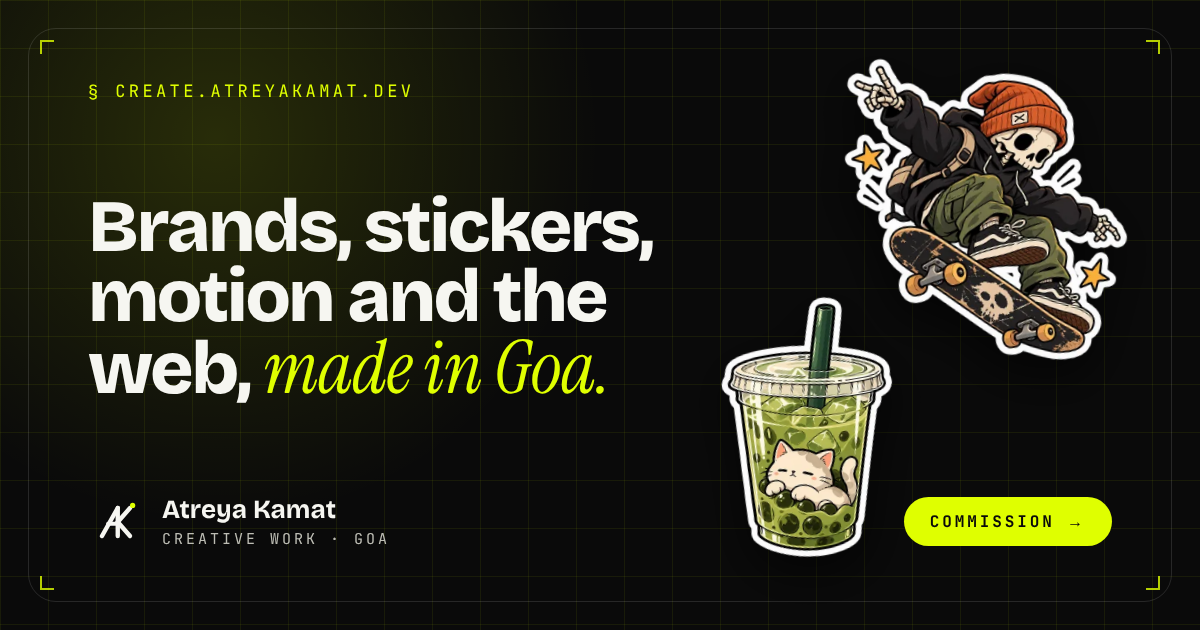
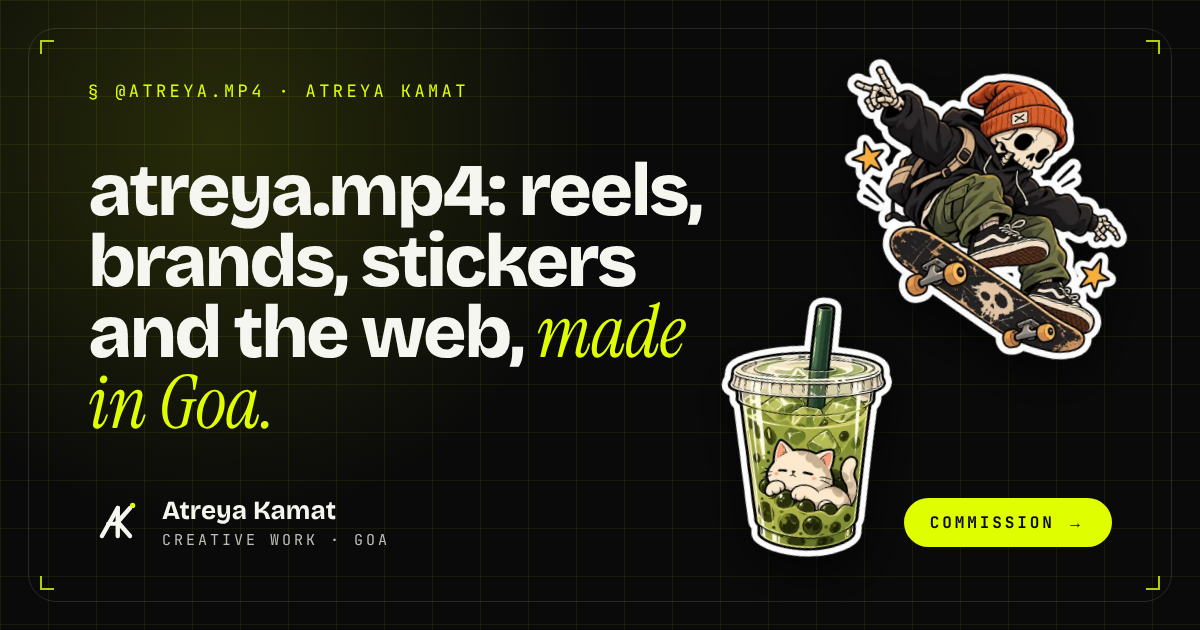
feat(create): brand the creative site as atreya.mp4
- Hero wordmark, badge, footer wordmark, titles and OG card use the
  atreya.mp4 creator handle (platform link left null until confirmed)

Claude-Session: https://claude.ai/code/session_01EiTu9y6341naCtArXskjXk

diff --git a/apps/create/src/components/Hero.tsx b/apps/create/src/components/Hero.tsx
@@ -7,7 +7,7 @@ import { motion, useReducedMotion } from "framer-motion";
 import { EASE_OUT_EXPO } from "@atreya/brand/motion";
 import { heroStickers } from "@/data/create";
 
-const WORD = "CREATE";
+const WORD = "atreya.mp4";
 
 /**
  * Hero: giant acid type plus a field of real Stix N Vibes stickers that can be
@@ -38,13 +38,13 @@ export function Hero() {
 
       <div className="relative z-10 mx-auto w-full max-w-[96rem]">
         <div className="mb-6 flex flex-wrap items-center justify-between gap-3 font-mono text-[11px] uppercase tracking-[0.2em]">
-          <span className="bg-acid px-2 py-1 text-ink">Atreya Kamat / create</span>
+          <span className="bg-acid px-2 py-1 text-ink">@atreya.mp4 · Atreya Kamat&rsquo;s creator studio</span>
           <span className="text-paper/60">Brands · stickers · motion · web — Goa, IN</span>
         </div>
 
         <h1 id="hero-title" className="pointer-events-none select-none font-display font-extrabold leading-[0.78] tracking-[-0.06em] text-acid">
-          <span className="sr-only">Create — creative work by Atreya Kamat</span>
-          <span aria-hidden className="flex overflow-hidden text-[clamp(5.5rem,24vw,23rem)]">
+          <span className="sr-only">atreya.mp4 — creative work by Atreya Kamat</span>
+          <span aria-hidden className="flex overflow-hidden text-[clamp(3.6rem,15.5vw,15rem)] tracking-[-0.07em]">
             {WORD.split("").map((ch, i) => (
               <motion.span
                 key={i}
@@ -66,7 +66,7 @@ export function Hero() {
             transition={{ duration: 0.9, ease: EASE_OUT_EXPO, delay: 0.7 }}
             className="max-w-2xl font-serif text-4xl leading-[1.02] text-paper md:text-6xl"
           >
-            Brands, stickers, motion and the web, <em className="text-acid">made in Goa.</em>
+            Reels, brands, stickers and the web, <em className="text-acid">made in Goa.</em>
           </motion.p>
           <motion.div
             initial={reduce ? false : { opacity: 0 }}

diff --git a/apps/create/src/app/layout.tsx b/apps/create/src/app/layout.tsx
@@ -10,26 +10,26 @@ import { Header } from "@/components/Header";
 import { Footer } from "@/components/Footer";
 import { site } from "@/data/create";
 
-const title = "Atreya Kamat — Creative work: brands, stickers, reels & web | Goa";
+const title = "atreya.mp4 — Reels, brands, stickers & creative web by Atreya Kamat | Goa";
 const description =
   "Creative work by Atreya Kamat in Goa: the Stix N Vibes sticker brand, art drawn in code, websites built as craft, and reel editing for brands.";
 
 export const metadata: Metadata = {
   metadataBase: new URL(site.url),
-  title: { default: title, template: "%s · create · Atreya Kamat" },
+  title: { default: title, template: "%s · atreya.mp4" },
   description,
   alternates: { canonical: "/" },
   openGraph: {
     type: "website",
     url: site.url,
-    siteName: "Atreya Kamat — create",
+    siteName: "atreya.mp4",
     title,
     description,
     locale: "en_IN",
-    images: [{ url: "/og/home.png", width: 1200, height: 630, alt: "create.atreyakamat.dev — brands, stickers, reels and web" }],
+    images: [{ url: "/og/home.png", width: 1200, height: 630, alt: "atreya.mp4 — reels, brands, stickers and web by Atreya Kamat" }],
   },
   twitter: { card: "summary_large_image", title, description, images: ["/og/home.png"] },
-  keywords: ["creative developer Goa", "reel editor Goa", "sticker brand Goa", "creative coding", "Stix N Vibes", "Atreya Kamat"],
+  keywords: ["atreya.mp4", "creative developer Goa", "reel editor Goa", "sticker brand Goa", "creative coding", "Stix N Vibes", "Atreya Kamat"],
   authors: [{ name: "Atreya Kamat", url: "https://atreyakamat.dev" }],
 };
 

diff --git a/apps/create/src/components/Footer.tsx b/apps/create/src/components/Footer.tsx
@@ -6,7 +6,7 @@ export function Footer() {
     <footer className="relative overflow-hidden border-t-2 border-acid bg-ink px-5 pt-14 md:px-10">
       <div className="mx-auto flex max-w-[96rem] flex-wrap items-start justify-between gap-8 font-mono text-[11px] uppercase tracking-[0.18em] text-paper/60">
         <div className="space-y-3">
-          <p className="text-acid">Atreya Kamat · create</p>
+          <p className="text-acid">@atreya.mp4 · Atreya Kamat</p>
           <p>Made in Goa</p>
           <a href={`mailto:${site.email}`} className="block normal-case tracking-normal text-paper hover:text-acid">
             {site.email}
@@ -25,9 +25,9 @@ export function Footer() {
       </div>
       <p
         aria-hidden
-        className="mx-auto mt-14 max-w-[96rem] select-none whitespace-nowrap font-display text-[26.5vw] font-extrabold leading-[0.74] tracking-[-0.07em] text-acid [@media(min-width:96rem)]:text-[25.5rem]"
+        className="mx-auto mt-14 max-w-[96rem] select-none whitespace-nowrap font-display text-[17vw] font-extrabold leading-[0.8] tracking-[-0.07em] text-acid [@media(min-width:96rem)]:text-[16.2rem]"
       >
-        CREATE
+        atreya.mp4
       </p>
       <div className="mx-auto flex max-w-[96rem] flex-wrap justify-between gap-3 border-t border-paper/15 py-5 font-mono text-[10.5px] uppercase tracking-[0.18em] text-paper/45">
         <span>© {new Date().getFullYear()} Atreya Kamat</span>

diff --git a/apps/create/src/components/Header.tsx b/apps/create/src/components/Header.tsx
@@ -13,7 +13,7 @@ export function Header() {
   return (
     <header className="fixed inset-x-0 top-0 z-50 flex items-center justify-between gap-4 border-b-2 border-acid bg-ink/90 px-5 py-3.5 backdrop-blur-md md:px-10">
       <div className="flex items-center gap-5">
-        <Link href="/" aria-label="create, home" className="text-paper transition-colors hover:text-acid">
+        <Link href="/" aria-label="atreya.mp4, home" className="text-paper transition-colors hover:text-acid">
           <Monogram size={34} accent="#DFFF00" />
         </Link>
         <EcosystemNav current="create" className="hidden lg:flex" />

diff --git a/apps/create/src/data/create.ts b/apps/create/src/data/create.ts
@@ -8,6 +8,9 @@ export const site = {
   url: "https://create.atreyakamat.dev",
   email: "atkamat1204@gmail.com",
   name: "Atreya Kamat",
+  /** Creator handle this site is branded as. Link it once the platform URL is confirmed. */
+  handle: "atreya.mp4",
+  handleUrl: null as string | null,
 };
 
 /** Sticker designs from Stix N Vibes (transparent webp), with a hero position (percent) and tilt. */

diff --git a/apps/create/src/app/not-found.tsx b/apps/create/src/app/not-found.tsx
@@ -9,7 +9,7 @@ export default function NotFound() {
           Peeled <span className="font-serif font-normal italic text-acid">off.</span>
         </h1>
         <Link href="/" className="mt-10 inline-block bg-acid px-7 py-4 font-mono text-xs font-bold uppercase tracking-[0.18em] text-ink">
-          Back to create
+          Back to atreya.mp4
         </Link>
       </div>
     </section>

diff --git a/apps/create/scripts/generate-og.py b/apps/create/scripts/generate-og.py
@@ -18,7 +18,7 @@ OUT = APP / "public" / "og"
 
 CARDS = [
     # (file, kicker, title, accent, portrait)
-    ("home", "create.atreyakamat.dev", "Brands, stickers, motion and the web,", "made in Goa.", True),
+    ("home", "@atreya.mp4 · Atreya Kamat", "atreya.mp4: reels, brands, stickers and the web,", "made in Goa.", True),
 ]
 
 MONOGRAM = """<svg viewBox="0 0 64 64" width="56" height="56" fill="none"><g stroke="#f6f6f1" stroke-linecap="round" stroke-linejoin="round">
